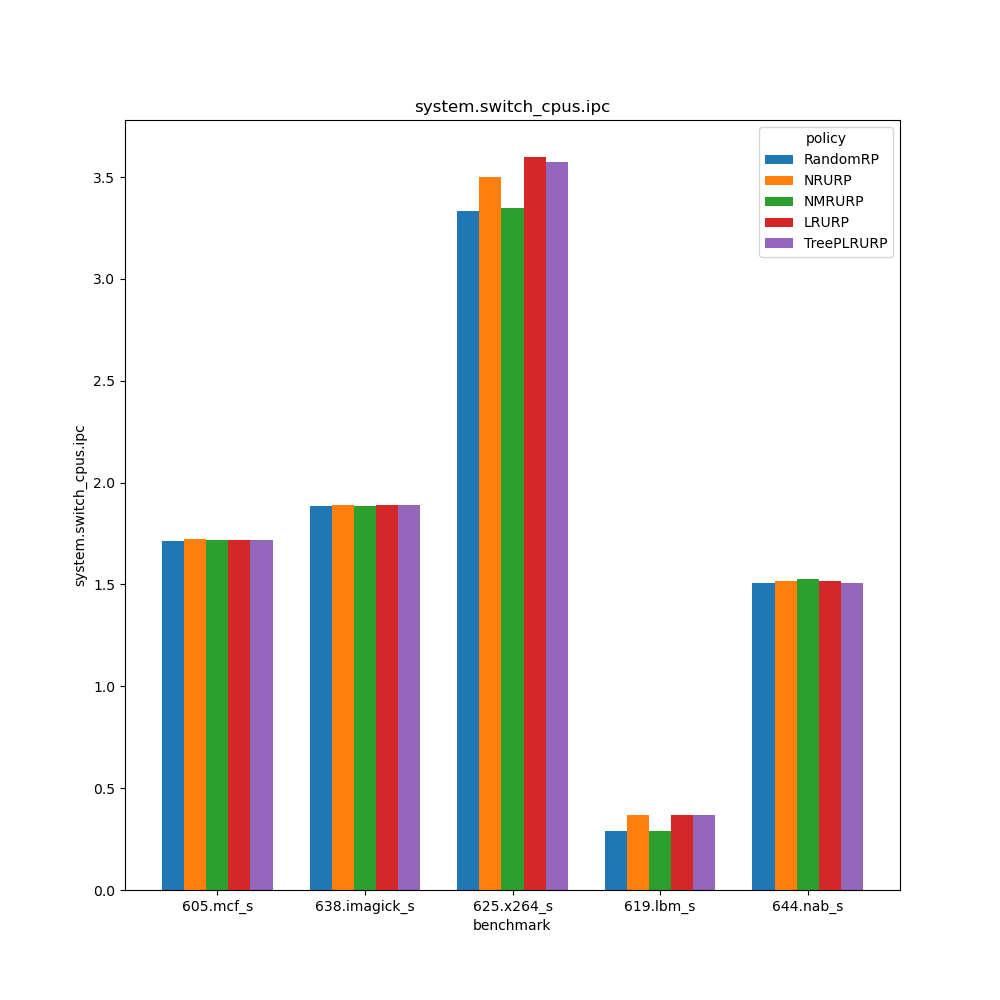
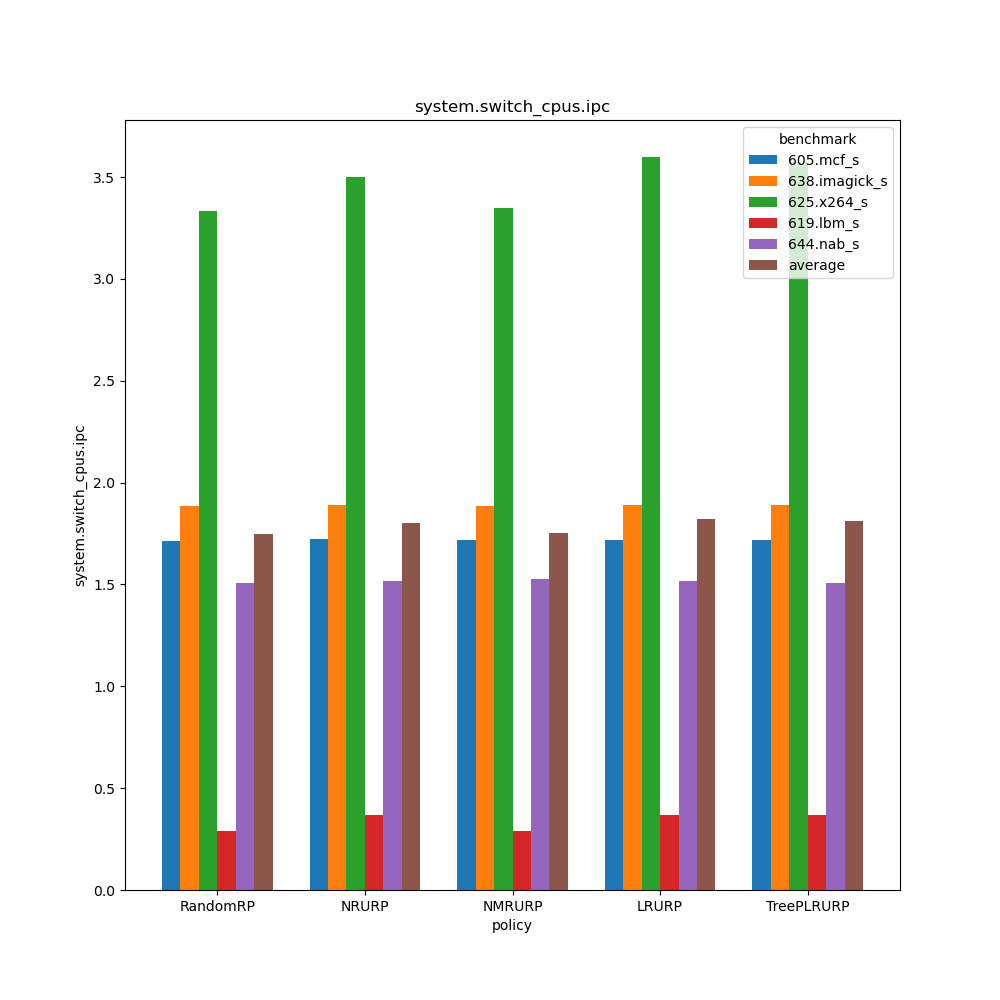
more plots

Changed region(s): [[0.31, 0.155, 0.713, 0.93], [0.744, 0.124, 0.899, 0.93], [0.155, 0.186, 0.279, 0.93]]

diff --git a/hw3/compare-results.py b/hw3/compare-results.py
@@ -15,14 +15,17 @@ def main():
     print(all_data)
     
     for c in configs:
-        for stat in ["system.switch_cpus.ipc", 
+        for stat in ["simSeconds",
+                     "system.switch_cpus.ipc", 
                      "system.cpu.dcache.demandMissRate::total", 
                      "system.cpu.dcache.demandAvgMissLatency::total"]:
             compare_stat(stat_name=stat, name=c, data_source=all_data)
 
 
 def compare_stat(stat_name, name, data_source: pd.DataFrame):
-    df : pd.DataFrame = data_source[stat_name].xs(name, level=2).unstack().T
+    df : pd.DataFrame = data_source[stat_name].xs(name, level=2).unstack()
+    df['average'] = df.mean(axis=1)
+    print(stat_name)
     print(df)
     
     ax = df.plot.bar(
